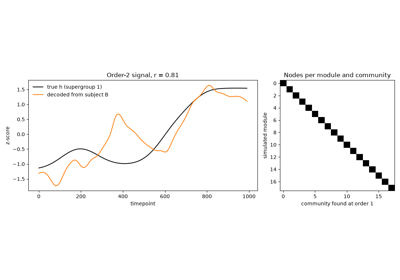
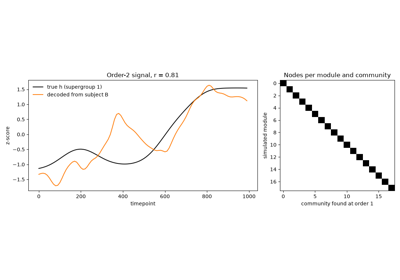
Docs: outputs and README numbers under the lower-cluster centering
Re-executed higher_order_tutorial.ipynb and the nested-recovery gallery
example (seed-0 score 0.74 -> 0.73); README states that its X[2] table
was measured with the 0.3.0 median centering.

Claude-Session: https://claude.ai/code/session_01DcKtyroRyyp5UK7L9zwqxL

diff --git a/README.md b/README.md
@@ -109,7 +109,7 @@ X = tc.features(nested, order=2, cfun=tc.autofc, weights_params={"var": 33 ** 2}
 print(comm.fits_[0]["n"], X[2][0].shape)  # 18 (1000, 36)
 ```
 
-This call gives the same features as the default call above; passing a `tc.Communities` object makes its fit readable in `fits_`. `tc.WeightedStrength` and `tc.Communities` summarize each subject's correlations by weighted sums of squared correlations per node or by the mean squared correlation within each community of nodes; they are accepted wherever `rfun` is. `delta_weights_function` and `delta_weights_params` set the kernel of the feeding path (default: `gaussian_weights` with variance 25; `eye_weights` gives co-fluctuations). In the gallery example `plot_nested_recovery.py` (this call, seed 0), a ridge map from subject A's order-2 features to `h`, applied to subject B, gives a mean correlation of 0.74 with `h` over the 6 supergroups (a raw score for one seed; over 24 seeds in `tests/test_nested_recovery.py`, with this configuration (`cfun=tc.autofc`, an analysis kernel with standard deviation 33, wider than the default 10, `Communities()` on the feeding path and the default analysis reducers), the score is .753 +- .019, mean +- standard error, with a control of -.025 +- .018 from subjects with an independent `h`). The default `cfun=tc.isfc` correlates each subject's features with the other subjects' and so reflects structure shared across subjects; `cfun=tc.autofc` computes within-subject correlations. Measured over 12 seeds (108 nodes, T 1000, 6 subjects per call, every argument other than those named left at its default; mean +- standard error):
+This call gives the same features as the default call above; passing a `tc.Communities` object makes its fit readable in `fits_`. `tc.WeightedStrength` and `tc.Communities` summarize each subject's correlations by weighted sums of squared correlations per node or by the mean squared correlation within each community of nodes; they are accepted wherever `rfun` is. `delta_weights_function` and `delta_weights_params` set the kernel of the feeding path (default: `gaussian_weights` with variance 25; `eye_weights` gives co-fluctuations). In the gallery example `plot_nested_recovery.py` (this call, seed 0), a ridge map from subject A's order-2 features to `h`, applied to subject B, gives a mean correlation of 0.73 with `h` over the 6 supergroups (a raw score for one seed; over 24 seeds in `tests/test_nested_recovery.py`, with this configuration (`cfun=tc.autofc`, an analysis kernel with standard deviation 33, wider than the default 10, `Communities()` on the feeding path and the default analysis reducers), the score is .753 +- .019, mean +- standard error, with a control of -.025 +- .018 from subjects with an independent `h`; measured with the median centering of `WeightedStrength` of timecorr 0.3.0: on 16 other seeds (1000-1015) the current centering changed this score by -.004 +- .001). The default `cfun=tc.isfc` correlates each subject's features with the other subjects' and so reflects structure shared across subjects; `cfun=tc.autofc` computes within-subject correlations. Measured over 12 seeds (108 nodes, T 1000, 6 subjects per call, every argument other than those named left at its default; mean +- standard error):
 
 | data (`shared=`) | call | `X[2]` score (control) | `D[2]` score (control) |
 |-|-|-|-|
@@ -117,6 +117,8 @@ This call gives the same features as the default call above; passing a `tc.Commu
 | `"order2"` | `cfun=tc.autofc` | .559 +- .022 (-.008 +- .025) | .199 +- .021 (.013 +- .015) |
 | `"order1"` (order-1 couplings shared) | `tc.features(data, order=2, return_delta=True)` | .638 +- .028 (.074 +- .009) | .293 +- .027 (.012 +- .014) |
 | `"order1"` | `cfun=tc.autofc` | .702 +- .012 (-.008 +- .025) | .293 +- .027 (.012 +- .014) |
+
+The `X[2]` scores were measured with the median centering of `WeightedStrength` in timecorr 0.3.0 and have not been re-measured with the current centering; `D[2]` does not use that centering.
 
 So with the literal defaults on the generator's default data, `h` was not recovered from `X[2]` but was from the order-2 feeding features `D[2]`, which do not depend on `cfun`. Recovery of structure above order 2 was not measured with the default reducers. A step reduced by a summary (with `cfun` `autofc`, `isfc` or `wisfc` and `combine=tc.null_combine`) is computed in blocks of nodes; memory is bounded only when every step uses a summary, since the default order-1 reducer (PCA) holds `K(K+1)/2` columns per subject; with `rfun=tc.WeightedStrength(signed=True)` the order-1 step is also computed in blocks. At 702 nodes (T 1000, 3 subjects) the default order-1 step is estimated at 10.31 GB (`estimate_memory_gb(702, 1, 1000, 3)`), above the default `max_memory_gb=4`; the 702-node run in `tests/test_nested_recovery.py` uses weighted strength on both paths at every order, order 1 included.
 

diff --git a/docs/auto_examples/plot_nested_recovery.rst b/docs/auto_examples/plot_nested_recovery.rst
@@ -70,8 +70,8 @@ docstring of ``tests/test_nested_recovery.py``.
 
     communities found at order 1: 18
     order-2 features per subject: (1000, 36)
-    correlation of decoded and true h, per supergroup: [0.81 0.75 0.89 0.8  0.48 0.72]
-    mean (raw score, one seed): 0.74
+    correlation of decoded and true h, per supergroup: [0.81 0.75 0.89 0.79 0.46 0.71]
+    mean (raw score, one seed): 0.73
 
 
 
@@ -147,7 +147,7 @@ docstring of ``tests/test_nested_recovery.py``.
 
 .. rst-class:: sphx-glr-timing
 
-   **Total running time of the script:** (0 minutes 2.823 seconds)
+   **Total running time of the script:** (0 minutes 5.371 seconds)
 
 
 .. _sphx_glr_download_auto_examples_plot_nested_recovery.py:
